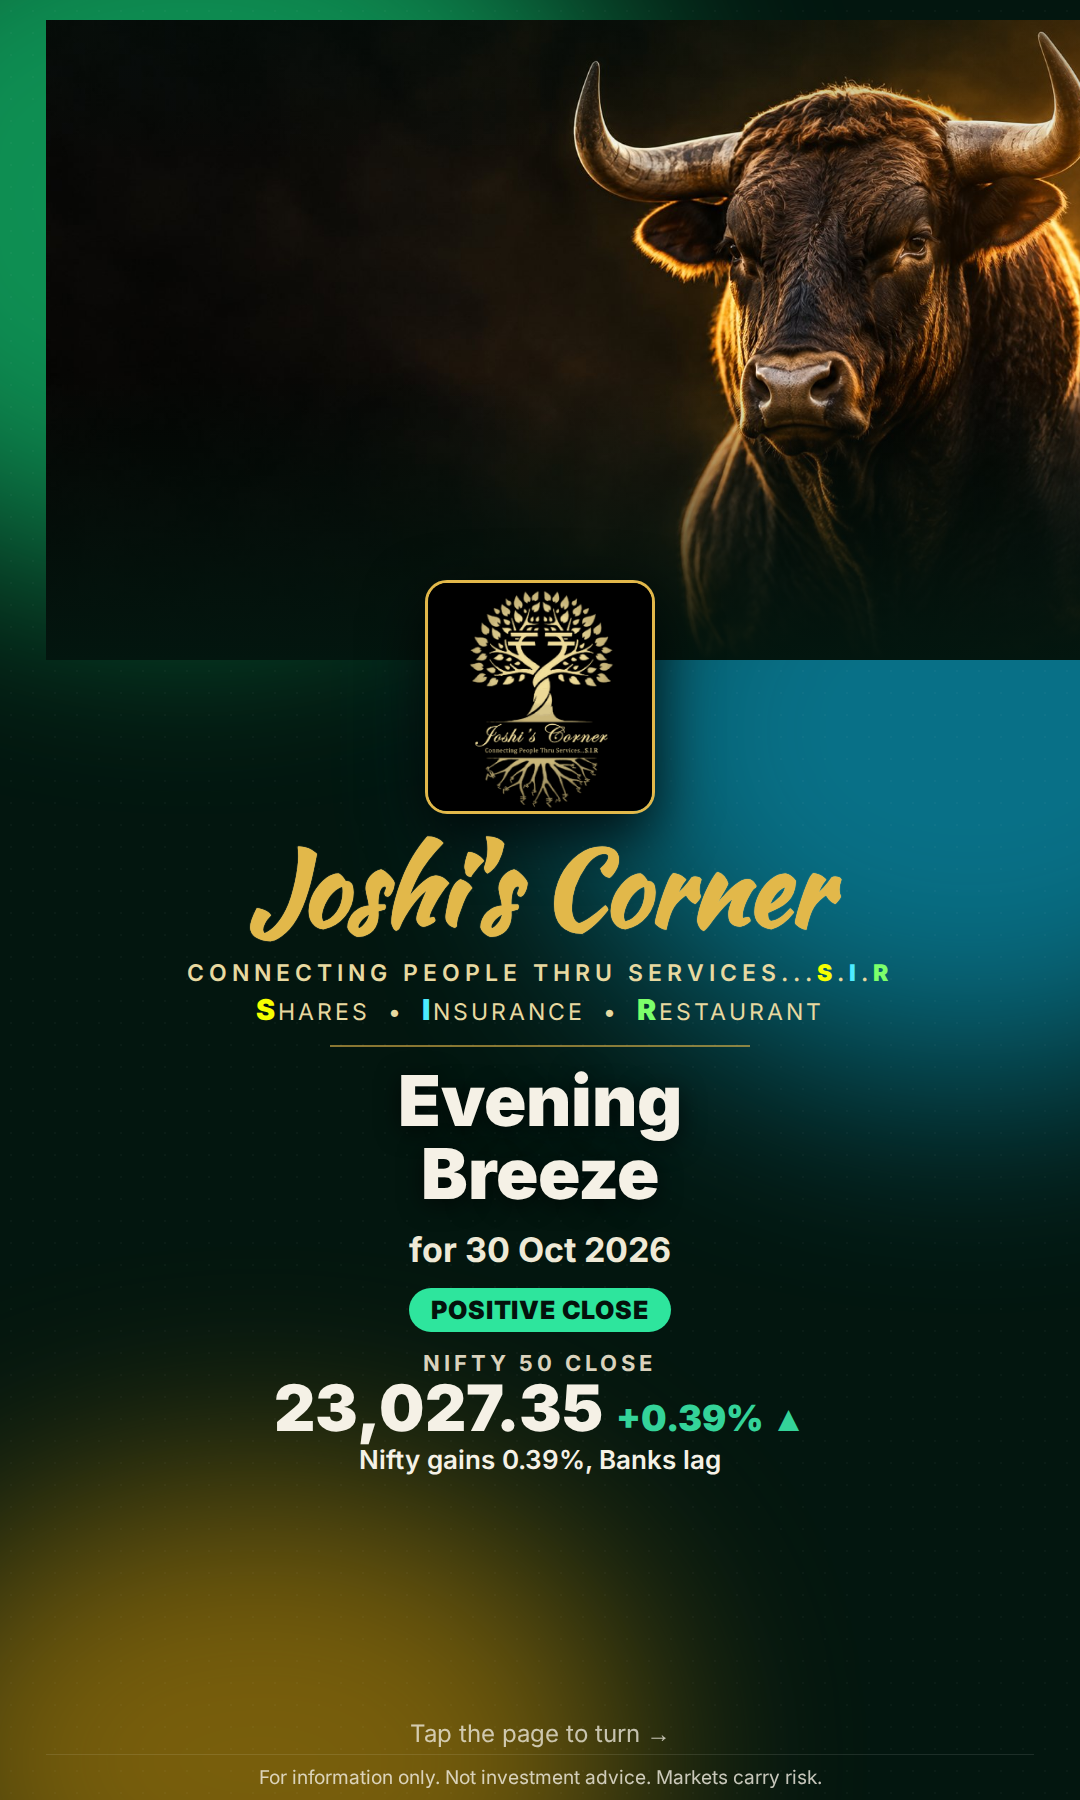
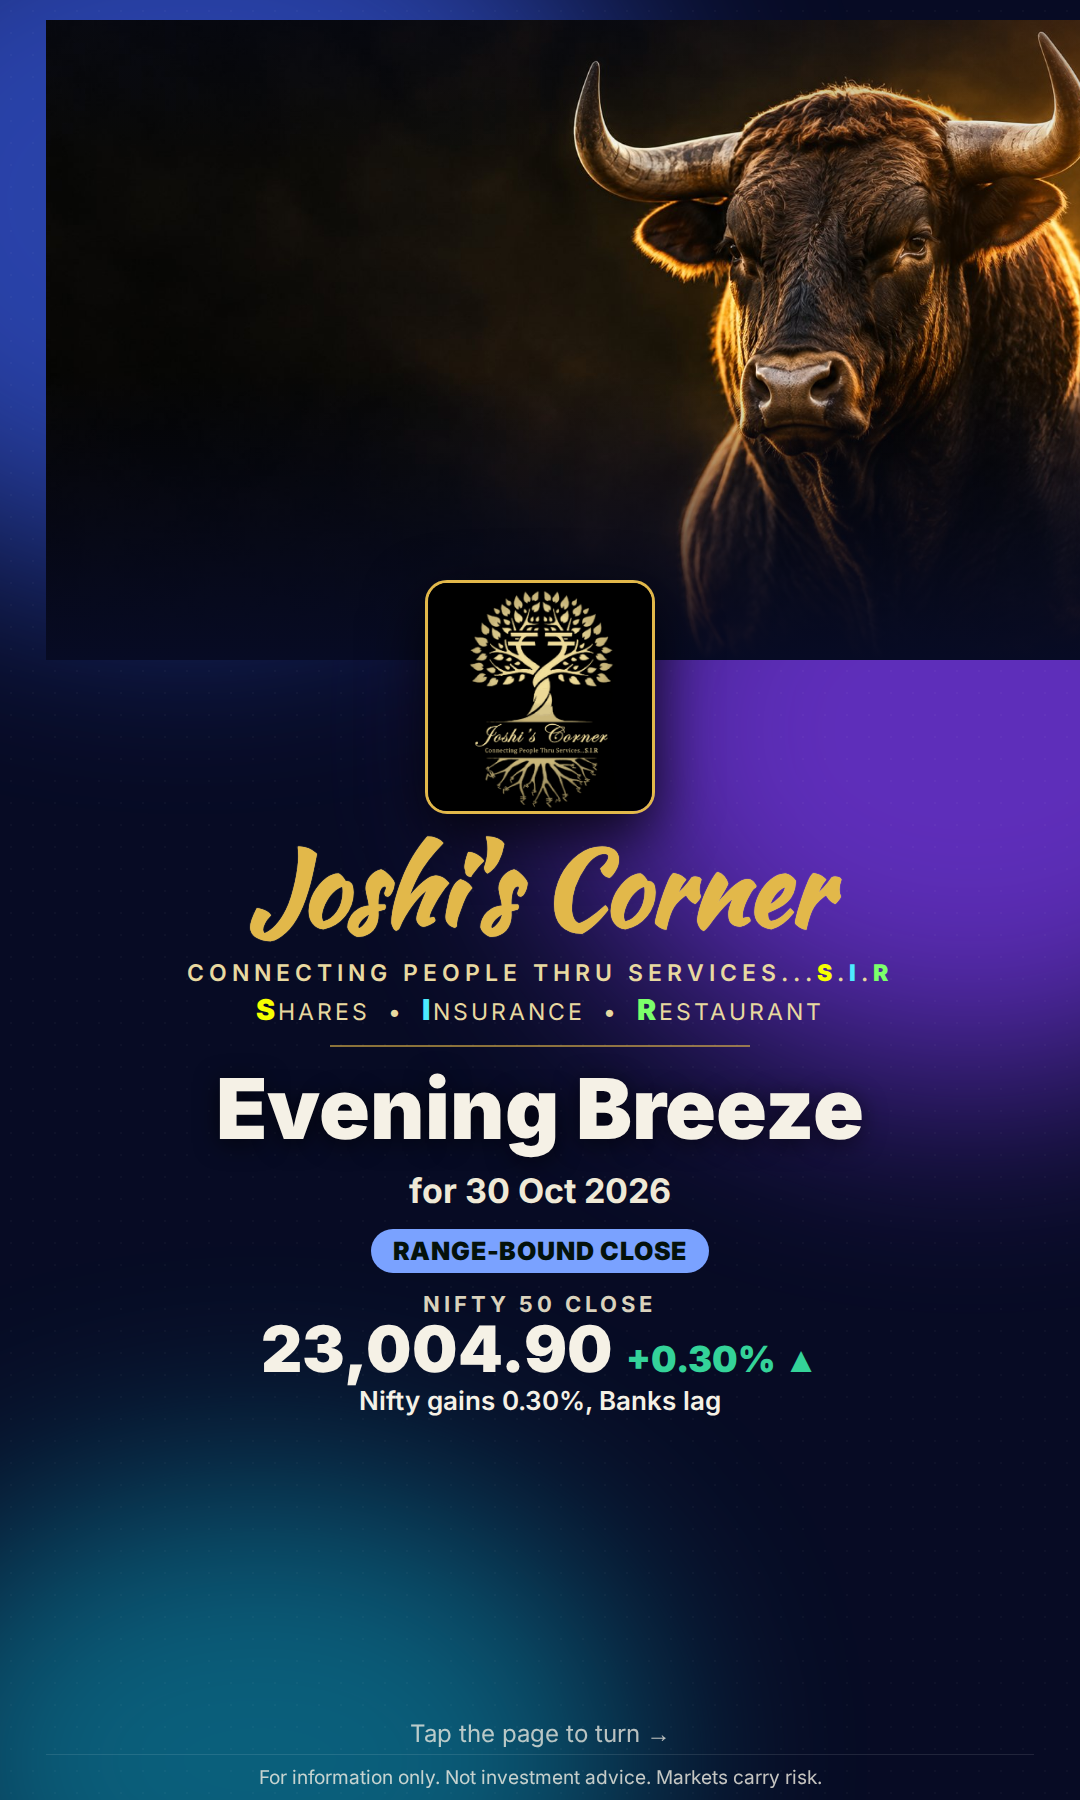
report: evening-breeze 2026-10-30 (ok)

diff --git a/evening/2026-10-30/index.html b/evening/2026-10-30/index.html
@@ -1,9 +1,9 @@
 <!doctype html><html lang="en"><head><meta charset="utf-8">
 <meta name="viewport" content="width=device-width,initial-scale=1,viewport-fit=cover">
 <title>Joshi&#x27;s Corner - Evening Breeze for 30 Oct 2026</title>
-<meta name="description" content="Nifty gains 0.39%, Banks lag | What to expect at the open, key levels, an insurance plan of the day and a restaurant offer.">
+<meta name="description" content="Nifty gains 0.30%, Banks lag | What to expect at the open, key levels, an insurance plan of the day and a restaurant offer.">
 <meta property="og:type" content="website"><meta property="og:site_name" content="Joshi's Corner">
-<meta property="og:title" content="Joshi&#x27;s Corner - Evening Breeze for 30 Oct 2026"><meta property="og:description" content="Nifty gains 0.39%, Banks lag | What to expect at the open, key levels, an insurance plan of the day and a restaurant offer.">
+<meta property="og:title" content="Joshi&#x27;s Corner - Evening Breeze for 30 Oct 2026"><meta property="og:description" content="Nifty gains 0.30%, Banks lag | What to expect at the open, key levels, an insurance plan of the day and a restaurant offer.">
 <meta property="og:url" content="https://ssjs1mu.github.io/jc-stock-analyst/evening/2026-10-30/"><meta property="og:image" content="https://ssjs1mu.github.io/jc-stock-analyst/evening/2026-10-30/og.jpg">
 <meta property="og:image:secure_url" content="https://ssjs1mu.github.io/jc-stock-analyst/evening/2026-10-30/og.jpg"><meta property="og:image:type" content="image/jpeg"><meta property="og:image:alt" content="Joshi&#x27;s Corner - Evening Breeze for 30 Oct 2026">
 <meta property="og:image:width" content="1200"><meta property="og:image:height" content="630">

diff --git a/evening/index.html b/evening/index.html
@@ -1,9 +1,9 @@
 <!doctype html><html lang="en"><head><meta charset="utf-8">
 <meta name="viewport" content="width=device-width,initial-scale=1,viewport-fit=cover">
 <title>Joshi&#x27;s Corner - Evening Breeze for 30 Oct 2026</title>
-<meta name="description" content="Nifty gains 0.39%, Banks lag | What to expect at the open, key levels, an insurance plan of the day and a restaurant offer.">
+<meta name="description" content="Nifty gains 0.30%, Banks lag | What to expect at the open, key levels, an insurance plan of the day and a restaurant offer.">
 <meta property="og:type" content="website"><meta property="og:site_name" content="Joshi's Corner">
-<meta property="og:title" content="Joshi&#x27;s Corner - Evening Breeze for 30 Oct 2026"><meta property="og:description" content="Nifty gains 0.39%, Banks lag | What to expect at the open, key levels, an insurance plan of the day and a restaurant offer.">
+<meta property="og:title" content="Joshi&#x27;s Corner - Evening Breeze for 30 Oct 2026"><meta property="og:description" content="Nifty gains 0.30%, Banks lag | What to expect at the open, key levels, an insurance plan of the day and a restaurant offer.">
 <meta property="og:url" content="https://ssjs1mu.github.io/jc-stock-analyst/evening/"><meta property="og:image" content="https://ssjs1mu.github.io/jc-stock-analyst/evening/og.jpg">
 <meta property="og:image:secure_url" content="https://ssjs1mu.github.io/jc-stock-analyst/evening/og.jpg"><meta property="og:image:type" content="image/jpeg"><meta property="og:image:alt" content="Joshi&#x27;s Corner - Evening Breeze for 30 Oct 2026">
 <meta property="og:image:width" content="1200"><meta property="og:image:height" content="630">
